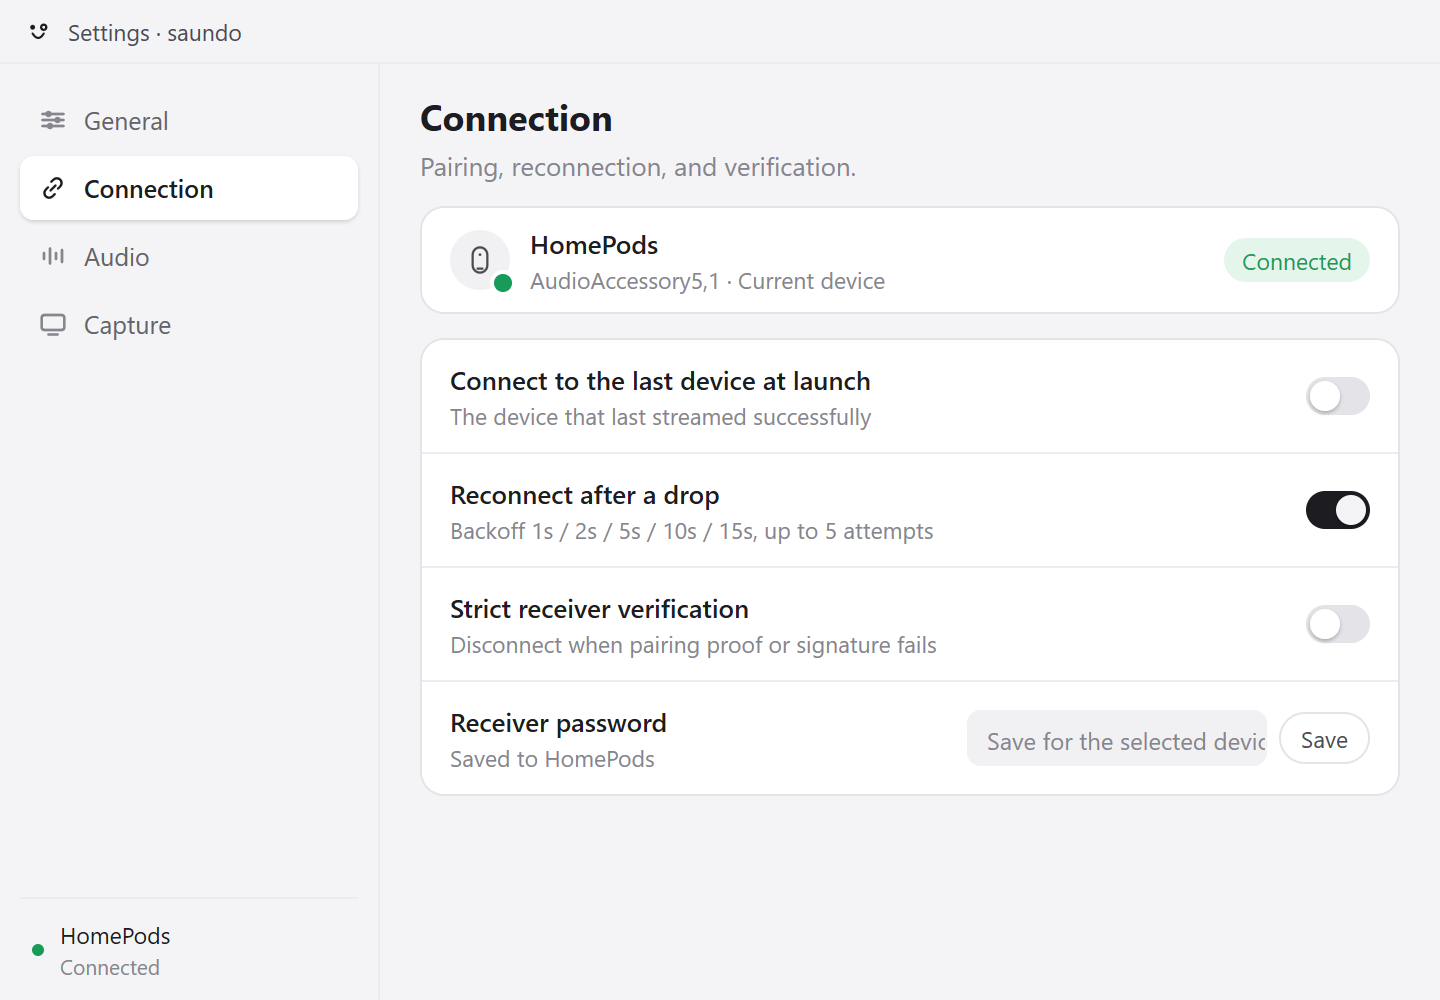
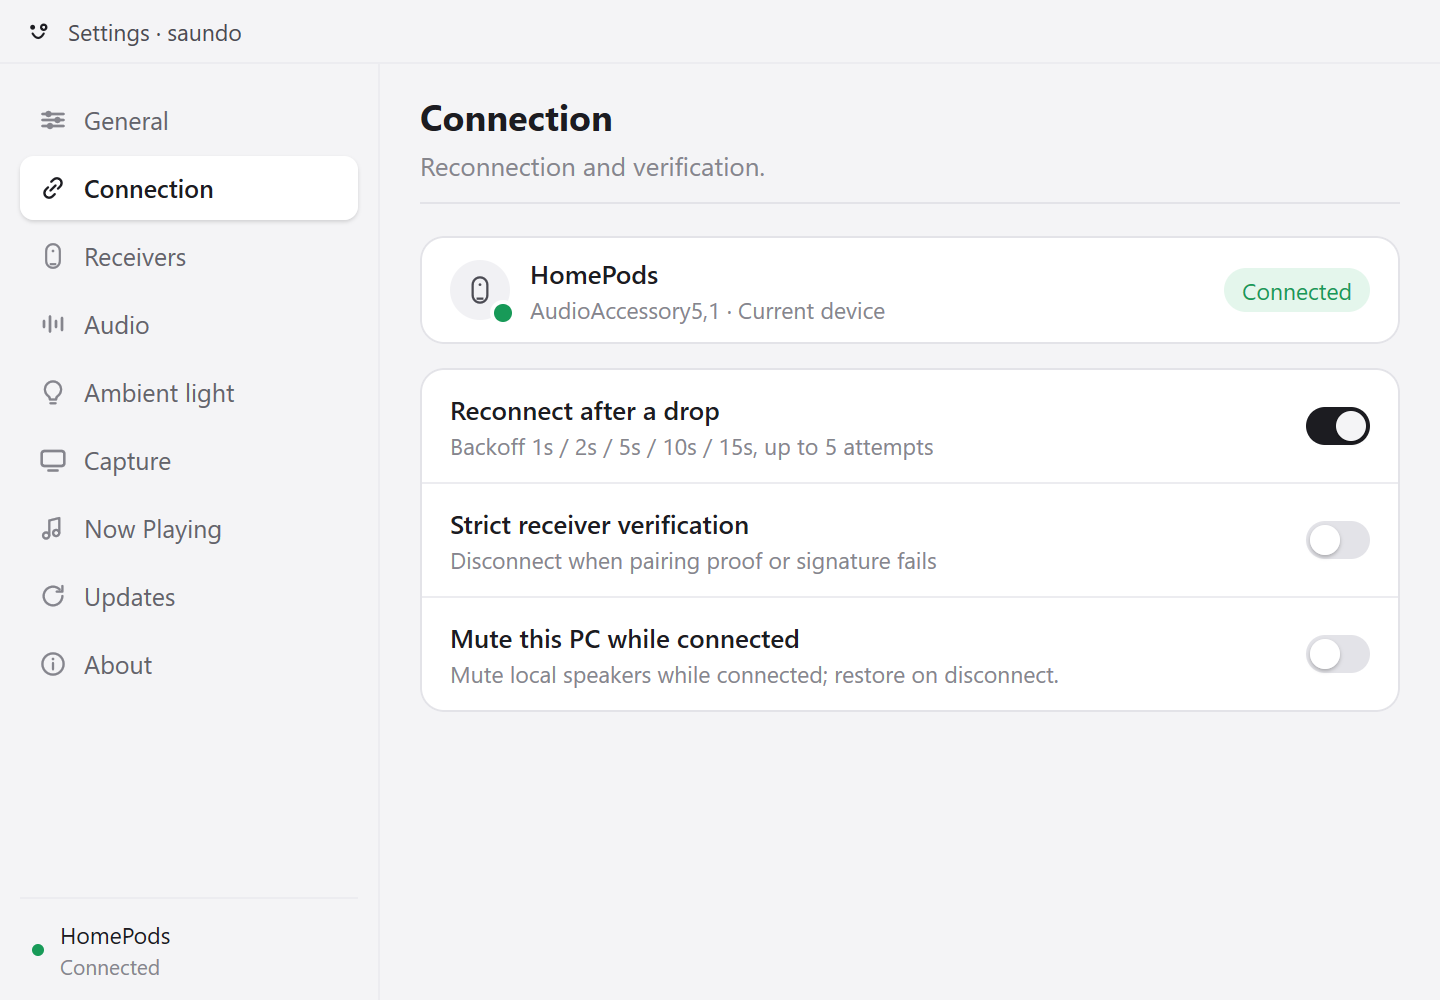
build: release 0.5.0
0.5.0 ships the Now Playing card and its settings page, ambient light for
HomePod top displays, receiver cover art, local-output mute, appearance,
the About page, directed discovery, and the reliability fixes since
0.4.2. The version, both changelogs, both READMEs with refreshed
screenshots, the docs audit, and the maintainer's draft-test record are
in this commit. The maintainer requested a draft for real-device testing;
the draft's test is the publish gate.

Checks: mingw32-make check green; the gofmt gate printed nothing, the
catalog check reported 329 messages in en and zh-CN, go vet and mygo vet
printed nothing, go test ./... passed every package, and the verify map
resolved. mygo build stamped saundo 0.5.0 and produced the installer,
the update archive, the 0.4.2 and 0.4.1 deltas, install.ps1, and a
manifest with version 0.5.0, the English notes, and a signature. Not
run: make check (make is not on PATH; the same target ran through
mingw32-make); a live update from 0.4.2 and a clean Windows install,
which stay in Currently pending.
Pinned-by: none; release commit.
Finding: none.
Docs: README.md, README.zh-CN.md, CHANGELOG.md, CHANGELOG.zh-CN.md,
docs/verification.md, and the four README screenshots; the audit covered
docs/ui.md, docs/implementation.md, docs/protocol.md, docs/devices.md,
and docs/architecture.md with no drift; reviewed-through dates are
2026-11-06 and 2026-11-07, and links resolve.

diff --git a/CHANGELOG.md b/CHANGELOG.md
@@ -5,6 +5,71 @@ All notable changes to saundo are documented here. The format follows
 semantic versioning. `mygo build` reads the `## <version>` section as the
 release notes.
 
+## 0.5.0 - 2026-11-07
+
+### Added
+
+- The Now Playing card in the flyout. It reads the Windows media session
+  and shows the app, cover, title, artist, a live five-band meter, elapsed
+  and remaining time, and the transport controls the session reports. The
+  session-switch arrow moves between open media sessions.
+- The Now Playing settings page. It controls the card's display master,
+  the cover mode (none, default, or the media artwork), cover colors, the
+  audio level, playback controls, and the receiver track-info push.
+- Ambient light. Six palettes plus a default reset paint the top display
+  of a HomePod on software 27.2 through the Now Playing cover. Choose the
+  preset in the Ambient light settings page or the flyout's ambient card.
+  With the light off the receiver keeps its default or the media cover.
+- Receiver cover art. The media thumbnail now reaches the receiver as an
+  image on the encrypted control channel. The ambient image and the
+  track-info cover share one slot; the light takes it while it is on.
+- Mute the PC output. A connection switch mutes the local render endpoint
+  while a session streams and restores its earlier state on disconnect,
+  quit, or when the switch is turned off. A guard file undoes the mute
+  after a crash. The settings note warns when the driver lets WASAPI
+  loopback capture survive the mute.
+- Appearance. The General page follows Windows, light, or dark, and both
+  windows repaint when the choice changes.
+- The About page. It shows the version, the project links, the GPL
+  license, and the third-party notices.
+- Directed discovery. A unicast pass over the ARP neighbors and the
+  remembered hosts finds receivers that miss the multicast browse, so a
+  HomePod that never answers multicast is still found and can be reached
+  after a restart.
+
+### Changed
+
+- The flyout and the Receivers page list only receivers that can be used:
+  manual entries, online discovered receivers, and the active session's
+  row. An offline discovered receiver's saved settings return with the
+  device.
+- The Receivers page renders an empty list as plain prose, with the add
+  row as the only plus, and collapses hidden rows when their group closes.
+- The meter gates band energy below -50 dBFS and floors each band's gain,
+  so dither and room tone no longer fill the bars during quiet passages.
+- The update notes dialog reads the offered version's entry from the
+  localized changelog, so a Chinese dialog no longer shows English notes.
+- A local build reports its git describe stamp, and the updater still
+  offers the release that the build sits past.
+
+### Fixed
+
+- The cover art now reaches the receiver. The sender emitted the image,
+  but the engine passed an empty thumbnail and the app's change key held
+  only the text.
+- A song change no longer replaces the ambient light, and turning the
+  light off hands the cover slot back to the media artwork or the origin
+  image.
+- A stereo group name arrives as RFC 1035 byte escapes in the TXT `gpn`
+  field and is now decoded, so a UTF-8 name such as the Chinese for
+  "bedroom" no longer appears as escapes.
+- A stale media thumbnail, such as Chrome's placeholder logo, is replaced
+  when the artwork changes under the same title.
+- The disconnected idle tray face is an open-eyed line face, distinct from
+  the silent-session smile.
+- Connecting to a remembered receiver without a host or port fails closed
+  instead of dialing an empty address.
+
 ## 0.4.2 - 2026-11-04
 
 ### Added

diff --git a/CHANGELOG.zh-CN.md b/CHANGELOG.zh-CN.md
@@ -2,6 +2,36 @@
 
 saundo 的显著变更记录在这里。格式遵循 Keep a Changelog，版本使用语义化版本。`mygo build` 读取 `CHANGELOG.md` 的 `## <version>` 段作为发布说明。本文件是中文翻译，版本标题与 `CHANGELOG.md` 保持一致。
 
+## 0.5.0 - 2026-11-07
+
+### 新增
+
+- flyout 里的“正在播放”卡片。它读取 Windows 媒体会话，显示应用、封面、标题、艺术家、五段实时电平表、已播放与剩余时间，以及会话提供的播放控制。会话切换箭头在打开的媒体会话之间切换。
+- “正在播放”设置页。它控制卡片的显示总开关、封面模式（无封面、默认封面、媒体封面）、封面配色、音频电平、播放控制和接收器曲目信息推送。
+- 氛围灯。六套预设加默认复位，通过正在播放封面把颜色画到 software 27.2 的 HomePod 顶屏。可在设置的“氛围灯”页或 flyout 的氛围灯卡片选择预设。关闭后接收端保留默认画面或媒体封面。
+- 接收端封面。媒体缩略图现在经加密控制通道作为图片发到接收端。氛围灯图片和曲目信息封面共用一个位置，氛围灯开启时优先显示氛围灯。
+- 连接后静音本机输出。“连接”页的开关在串流时静音本机渲染端点，断开、退出或关闭开关时恢复之前的状态；崩溃后由守卫文件撤销静音。驱动允许 WASAPI 环回继续采集时，设置里的说明会给出警告。
+- 外观。“通用”页可跟随 Windows、浅色或深色，两个窗口一起重绘。
+- “关于”页。显示版本、项目链接、GPL 许可证和第三方声明。
+- 定向发现。每五轮通过 Windows ARP 邻居表和记住的主机做一次单播查询，找回不响应组播的接收端，所以从不响应组播的 HomePod 也能被发现，并在重启后仍可连接。
+
+### 变更
+
+- flyout 和“接收器”页只列出可用的接收端：手动添加的、在线的已发现接收端，以及当前会话那一行。离线的已发现接收端保留设置，设备回来后重新出现。
+- “接收器”页的空列表改为普通文字，添加行是唯一的加号；隐藏组收起时一并收起其中的展开行。
+- 电平表忽略 -50 dBFS 以下的频段能量，并为每个频段设增益下限，安静段落不再被底噪和抖动填满。
+- 更新说明弹窗从本地化 changelog 读取当前提供版本的条目，中文弹窗不再先显示英文说明。
+- 本地构建显示 git describe 版本戳，更新器仍会提供它之前的正式版本。
+
+### 修复
+
+- 封面现在能到达接收端。发送端已经发出图片，但引擎传了空缩略图，应用的变更键也只包含文字。
+- 切歌不再覆盖氛围灯；关闭氛围灯后，封面位置交还给媒体封面或默认画面。
+- 立体声组名在 TXT `gpn` 字段里以 RFC 1035 字节转义到达，现在会解码，UTF-8 名称“卧室”不再显示为转义序列。
+- Chrome 的占位缩略图之类的旧媒体缩略图，会在同一标题下封面变化时刷新。
+- 断开后的空闲托盘表情改为睁眼横线脸，与已连接但静音的微笑了区分。
+- 连接一台没有主机或端口的记住的接收端时快速失败，不再拨号到空地址。
+
 ## 0.4.2 - 2026-11-04
 
 ### 新增

diff --git a/README.md b/README.md
@@ -60,8 +60,11 @@ mingw32-make build  # builds bin/saundo.exe and an NSIS installer (bin/saundo-se
 - **System audio capture** — WASAPI loopback of the default output, a fixed endpoint, or a single application.
 - **AirPlay 2, properly timed** — uncompressed ALAC at 44.1 kHz, PTP-locked to the receiver's clock (the sender is the PTP master for stereo pairs), encrypted control and event channels, retransmit on request.
 - **HomePod stereo pairs** — both members appear as one target and stream in lockstep.
-- **Receiver management** — add a receiver by IP or hostname when mDNS cannot find it, keep discovered receivers across power-offs, choose one auto-connect target, hide rows from the panel, and give each receiver a DSP/DAC delay plus its own DPAPI-stored password.
-- **Now Playing** — reads the Windows media session (SMTC) and pushes title · artist · album to the receiver, toggleable.
+- **Receiver management** — add a receiver by IP or hostname when mDNS cannot find it, keep discovered receivers across power-offs, choose one auto-connect target, hide rows from the panel, and give each receiver a DSP/DAC delay plus its own DPAPI-stored password. A directed unicast pass finds receivers that miss multicast, and both surfaces list only the receivers you can use right now.
+- **Now Playing card** — the flyout shows the Windows media session with its cover, title, artist, the transport controls the session reports, and a live five-band meter; switch between open sessions. The Now Playing settings page controls the card, the cover mode, cover colors, the audio level, and the receiver track-info push.
+- **Ambient light** — six palettes plus a default reset paint a HomePod's top display through the Now Playing cover. Choose the preset in the Ambient light settings page or the flyout's ambient card.
+- **Mute the PC output** — a connection switch mutes the local render endpoint while a session streams and restores it on disconnect, with a guard file that recovers the state after a crash.
+- **Appearance** — follow Windows, light, or dark.
 - **Latency modes** — low 200 ms, standard 1.5 s, stable 2 s, or a custom 20 to 2000 ms value. Switch in the flyout or the audio page. A live change restarts the stream with a spinner.
 - **A tray that shows the state** — the smile, stream, and connect faces animate at 12 frames per 100 ms while connecting or streaming. Turn it off in settings. Reduce Motion holds the static face.
 - **Updates in the app** — the settings Update page shows available releases, their notes, and the release history. It installs the signed update. The flyout chip and the tray tooltip point to it.

diff --git a/README.zh-CN.md b/README.zh-CN.md
@@ -60,8 +60,11 @@ mingw32-make build  # 经 mygo 构建 bin/saundo.exe 与 NSIS 安装器（bin/sa
 - **系统音频采集**——对默认输出、指定端点或单个应用做 WASAPI 环回。
 - **时序正确的 AirPlay 2**——44.1 kHz 未压缩 ALAC，PTP 锁定到接收端时钟（立体声组由发送端担任 PTP master），加密的控制与事件通道，按需重传。
 - **HomePod 立体声组**——两个成员合并为一个目标，同步起播。
-- **接收器管理**——mDNS 发现不到的设备可手动填写 IP 或主机名加入；发现过的接收端断电后仍保留；同时只标记一台自动连接；可把行从面板隐藏；每台接收器可单独设置 DSP/DAC 延迟和经 DPAPI 保存的密码。
-- **正在播放**——读取 Windows 媒体会话（SMTC），把 曲目 · 艺人 · 专辑 推给接收端，可开关。
+- **接收器管理**——mDNS 发现不到的设备可手动填写 IP 或主机名加入；发现过的接收端断电后仍保留；同时只标记一台自动连接；可把行从面板隐藏；每台接收器可单独设置 DSP/DAC 延迟和经 DPAPI 保存的密码。定向单播会找回不响应组播的接收端；两个界面都只列出当前可用的接收端。
+- **正在播放卡片**——flyout 显示 Windows 媒体会话的封面、标题、艺术家、会话提供的播放控制和五段实时电平表；可在打开的媒体会话之间切换。设置里的“正在播放”页控制卡片、封面模式、封面配色、音频电平和接收器曲目信息推送。
+- **氛围灯**——六套预设加默认复位，通过正在播放封面画到 HomePod 顶屏。可在设置的“氛围灯”页或 flyout 的氛围灯卡片选择预设。
+- **连接后静音本机输出**——“连接”页的开关在串流时静音本机渲染端点，断开后恢复；崩溃后由守卫文件恢复状态。
+- **外观**——跟随 Windows、浅色或深色。
 - **延迟模式**——低延迟 200 ms、标准 1.5 s、稳定 2 s，或 20 到 2000 ms 的自定义值。可在 flyout 或音频页切换。直播中切换会重启串流并显示加载状态。
 - **托盘状态动画**——连接和串流时，微笑、声波、连接脸以 12 帧、每帧 100 ms 播放。设置里可关闭。Reduce Motion 时保持静态。
 - **应用内更新**——设置里的"更新"页显示可用版本、说明和发布历史。它安装签名更新。flyout 的更新提示和托盘 tooltip 指向它。

diff --git a/docs/verification.md b/docs/verification.md
@@ -1086,6 +1086,13 @@ HomePod R (`AudioAccessory5,1`, 27.2), muted, lamp app built with
   the receiver track-info cover, the 6,1 and first-generation HomePod, and a
   stereo pair's simultaneous repaint.
 
+## Release 0.5.0 pre-release check (2026-11-07)
+
+- **Draft for real-device testing.** The maintainer requested a 0.5.0 draft
+  and tests it on real devices before publishing. The release request is the
+  local smoke-test confirmation; the draft's real-device test is the publish
+  gate.
+
 ## Failure modes and meanings
 
 | Symptom | Likely cause |
